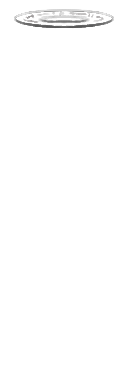
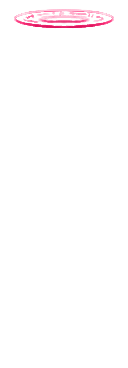
fixed unchained Victory VFX

Changed region(s): [[0.0938, 0.0, 0.9062, 0.0897]]

diff --git a/theUnchainedMod/src/main/java/theUnchainedMod/vfx/UnchainedVictoryVFX.java b/theUnchainedMod/src/main/java/theUnchainedMod/vfx/UnchainedVictoryVFX.java
@@ -2,6 +2,7 @@ package theUnchainedMod.vfx;
 
 import com.badlogic.gdx.Gdx;
 import com.badlogic.gdx.graphics.Color;
+import com.badlogic.gdx.graphics.GL20;
 import com.badlogic.gdx.graphics.Texture;
 import com.badlogic.gdx.graphics.g2d.SpriteBatch;
 import com.badlogic.gdx.graphics.g2d.TextureAtlas;
@@ -30,10 +31,8 @@ public class UnchainedVictoryVFX extends AbstractGameEffect {
     private float glowingEyeOpacity;
     private float restOfMaskOpacity;
     private float maskBreakMovementSpeed;
-    private TextureAtlas.AtlasRegion glowImage;
 
     public UnchainedVictoryVFX() {
-        this.glowImage = ImageMaster.GLOW_SPARK_2;
         this.startX = Settings.WIDTH/2f - 112;
         this.startY = Settings.HEIGHT/2f - 112;
         this.color = Color.WHITE.cpy();
@@ -42,22 +41,24 @@ public class UnchainedVictoryVFX extends AbstractGameEffect {
         glowingEyeOpacity = 1;
         restOfMaskOpacity = 1;
         leftMaskPieceX = leftMaskPieceY = rightMaskPieceX = rightMaskPieceY = 0;
-        maskBreakMovementSpeed = 4.5f;
+        maskBreakMovementSpeed = 5f;
     }
 
     public void update() {
+        if(this.duration == DUR)
+            CardCrawlGame.sound.play("relayApply", -0.5f); //chain breaking sound effect
         this.duration -= Gdx.graphics.getDeltaTime();
         if(glowingEyeOpacity > 0)
         {
             glowingEyeOpacity -= Gdx.graphics.getDeltaTime();
             if(glowingEyeOpacity < 0) {
                 glowingEyeOpacity = 0;
-                CardCrawlGame.sound.play("normalChainAttack"); //chain breaking sound effect
-                AbstractDungeon.effectsQueue.add(new ChainAcrossScreenEffect(color, 0,Settings.HEIGHT * 0.72f, MathUtils.random(4, 6), MathUtils.random(55,75)));
-                AbstractDungeon.effectsQueue.add(new ChainAcrossScreenEffect(color, Settings.WIDTH * 0.21f,Settings.HEIGHT, MathUtils.random(4, 6), MathUtils.random(230,250)));
-                AbstractDungeon.effectsQueue.add(new ChainAcrossScreenEffect(color, Settings.WIDTH * 0.25f,0, MathUtils.random(4, 6), MathUtils.random(130,150)));
-                AbstractDungeon.effectsQueue.add(new ChainAcrossScreenEffect(color, Settings.WIDTH * 0.83f,Settings.HEIGHT, MathUtils.random(4, 6), MathUtils.random(290,310)));
-                AbstractDungeon.effectsQueue.add(new ChainAcrossScreenEffect(color, Settings.WIDTH * 0.86f,0, MathUtils.random(4, 6), MathUtils.random(45,65)));
+                CardCrawlGame.sound.play("unchainedSelect"); //chain breaking sound effect
+                //AbstractDungeon.effectsQueue.add(new ChainAcrossScreenEffect(Color.GOLD, 0,Settings.HEIGHT * 0.72f, MathUtils.random(4, 6), MathUtils.random(55,75)));
+                //AbstractDungeon.effectsQueue.add(new ChainAcrossScreenEffect(Color.GOLD, Settings.WIDTH * 0.21f,Settings.HEIGHT, MathUtils.random(4, 6), MathUtils.random(230,250)));
+                //AbstractDungeon.effectsQueue.add(new ChainAcrossScreenEffect(Color.GOLD, Settings.WIDTH * 0.25f,0, MathUtils.random(4, 6), MathUtils.random(130,150)));
+                //AbstractDungeon.effectsQueue.add(new ChainAcrossScreenEffect(Color.GOLD, Settings.WIDTH * 0.83f,Settings.HEIGHT, MathUtils.random(4, 6), MathUtils.random(290,310)));
+                //AbstractDungeon.effectsQueue.add(new ChainAcrossScreenEffect(Color.GOLD, Settings.WIDTH * 0.86f,0, MathUtils.random(4, 6), MathUtils.random(45,65)));
             }
         }
         if(this.duration <= 1.5f)
@@ -68,7 +69,7 @@ public class UnchainedVictoryVFX extends AbstractGameEffect {
             rightMaskPieceX += maskBreakMovementSpeed;
             rightMaskPieceY -= 0.1f * maskBreakMovementSpeed;
 
-            maskBreakMovementSpeed -= 4 * Gdx.graphics.getDeltaTime();
+            maskBreakMovementSpeed -= 3 * Gdx.graphics.getDeltaTime();
         }
         if(this.duration <= 0.75f)
         {
@@ -84,7 +85,8 @@ public class UnchainedVictoryVFX extends AbstractGameEffect {
     }
 
     public void render(SpriteBatch sb) {
-        //sb.setColor(this.color);
+        sb.setBlendFunction(GL20.GL_SRC_ALPHA, GL20.GL_ONE_MINUS_SRC_ALPHA);
+
         sb.setColor(new Color(this.color.r, this.color.g, this.color.b, restOfMaskOpacity));
 
         sb.draw(MaskR, this.startX + rightMaskPieceX, this.startY + rightMaskPieceY, 112, 112, 224, 224, this.scale * Settings.scale, this.scale * Settings.scale, this.rotation, 0, 0, 224, 224, false, false);
@@ -94,10 +96,7 @@ public class UnchainedVictoryVFX extends AbstractGameEffect {
         sb.setColor(new Color(this.color.r, this.color.g, this.color.b, glowingEyeOpacity));
         sb.draw(MaskEyeGlow, this.startX, this.startY, 112, 112, 224, 224, this.scale * Settings.scale, this.scale * Settings.scale, this.rotation, 0, 0, 224, 224, false, false);
 
-        // TODO: first draw a glow effect like in share pain that also fades out
-        sb.setColor(new Color(0.9f, 0.3f, 0.86f, glowingEyeOpacity));
-        sb.draw(glowImage, this.startX, this.startY, (float)glowImage.packedWidth / 2.0F, (float)glowImage.packedHeight / 2.0F, (float)glowImage.packedWidth, (float)glowImage.packedHeight, 5* scale, 5* scale, this.rotation);
-
+        sb.setBlendFunction(770, 771);
     }
     public void dispose() {
     }

diff --git a/theUnchainedMod/src/main/java/theUnchainedMod/booster_pack_cards/SwordOfDamocles.java b/theUnchainedMod/src/main/java/theUnchainedMod/booster_pack_cards/SwordOfDamocles.java
@@ -19,21 +19,21 @@ public class SwordOfDamocles extends AbstractDynamicCard {
 
     public static final String ID = TheUnchainedMod.makeID(SwordOfDamocles.class.getSimpleName());
     public static final String IMG = makeCardPath("SwordOfDamocles.png");
-    private static final CardRarity RARITY = CardRarity.UNCOMMON;
+    private static final CardRarity RARITY = CardRarity.RARE;
     private static final CardTarget TARGET = CardTarget.SELF;
     private static final CardType TYPE = CardType.SKILL;
     public static final CardColor COLOR = TheUnchained.Enums.COLOR_BOOSTER;
 
     private static final int COST = 0;
-    private static final int MAGIC_NUMBER = 4; // Temp Strength
-    private static final int UPGRADE_MAGIC_NUMBER = 2;
+    private static final int MAGIC_NUMBER = 6; // Temp Strength
+    private static final int UPGRADE_MAGIC_NUMBER = 3;
     private static final int CHAIN_LENGTH = 1; //Chain Length
-    private static final int SECOND_MAGIC_NUMBER = 8; // Self Damage
+    //private static final int SECOND_MAGIC_NUMBER = 8; // Self Damage
 
     public SwordOfDamocles() {
         super(ID, IMG, COST, TYPE, COLOR, RARITY, TARGET);
         baseMagicNumber = magicNumber = MAGIC_NUMBER;
-        defaultBaseSecondMagicNumber = defaultSecondMagicNumber = SECOND_MAGIC_NUMBER;
+        //defaultBaseSecondMagicNumber = defaultSecondMagicNumber = SECOND_MAGIC_NUMBER;
         this.exhaust = true;
         tags.add(CustomTags.CHAIN);
     }
@@ -50,10 +50,10 @@ public class SwordOfDamocles extends AbstractDynamicCard {
     public void use(AbstractPlayer p, AbstractMonster m) {
         AbstractDungeon.actionManager.addToBottom(new ApplyPowerAction(p, p, new StrengthPower(p, this.magicNumber), this.magicNumber));
 
-        AbstractDungeon.actionManager.addToBottom(new ApplyPowerAction(p, p, new DamoclesChainPower(p, CHAIN_LENGTH, SECOND_MAGIC_NUMBER,  magicNumber, TYPE)));
+        AbstractDungeon.actionManager.addToBottom(new ApplyPowerAction(p, p, new DamoclesChainPower(p, CHAIN_LENGTH, magicNumber,  magicNumber, TYPE)));
         if (p.hasPower(DeliciousChurroPower.POWER_ID)) {
             p.getPower(DeliciousChurroPower.POWER_ID).onSpecificTrigger();
-            AbstractDungeon.actionManager.addToBottom(new ApplyPowerAction(p, p, new DamoclesChainPower(p, CHAIN_LENGTH, SECOND_MAGIC_NUMBER, magicNumber, TYPE)));
+            AbstractDungeon.actionManager.addToBottom(new ApplyPowerAction(p, p, new DamoclesChainPower(p, CHAIN_LENGTH, magicNumber, magicNumber, TYPE)));
         }
         AbstractDungeon.effectsQueue.add(new SwordOfDamoclesEffect(p.hb.cX, p.hb.cY));
     }

diff --git a/theUnchainedMod/src/main/java/theUnchainedMod/characters/TheUnchained.java b/theUnchainedMod/src/main/java/theUnchainedMod/characters/TheUnchained.java
@@ -28,6 +28,7 @@ import theUnchainedMod.TheUnchainedMod;
 import theUnchainedMod.cards.*;
 import theUnchainedMod.patches.CharacterSelectUIPatch;
 import theUnchainedMod.relics.RustedChains;
+import theUnchainedMod.vfx.ChainAcrossScreenEffect;
 import theUnchainedMod.vfx.UnchainedVictoryVFX;
 
 import java.util.ArrayList;
@@ -88,7 +89,7 @@ public class TheUnchained extends CustomPlayer {
     private static final String[] NAMES = characterStrings.NAMES;
     private static final String[] TEXT = characterStrings.TEXT;
 
-    // =============== /STRINGS/ =================
+    // =============== /END EFFECT/ =================
 
     boolean endEffectStarted;
 
@@ -325,13 +326,12 @@ public class TheUnchained extends CustomPlayer {
     {
         effects.add(new UnchainedVictoryVFX());
 
-        /*CardCrawlGame.sound.play("normalChainAttack"); //chain breaking sound effect
-        effects.add(new ChainAcrossScreenEffect(Color.WHITE, 0,Settings.HEIGHT * 0.72f, MathUtils.random(4, 6), MathUtils.random(55,75)));
-        effects.add(new ChainAcrossScreenEffect(Color.WHITE, Settings.WIDTH * 0.21f,Settings.HEIGHT, MathUtils.random(4, 6), MathUtils.random(230,250)));
-        effects.add(new ChainAcrossScreenEffect(Color.WHITE, Settings.WIDTH * 0.25f,0, MathUtils.random(4, 6), MathUtils.random(130,150)));
-        effects.add(new ChainAcrossScreenEffect(Color.WHITE, Settings.WIDTH * 0.83f,Settings.HEIGHT, MathUtils.random(4, 6), MathUtils.random(290,310)));
-        effects.add(new ChainAcrossScreenEffect(Color.WHITE, Settings.WIDTH * 0.86f,0, MathUtils.random(4, 6), MathUtils.random(45,65)));
-*/
+        effects.add(new ChainAcrossScreenEffect(Color.GOLD, 0,Settings.HEIGHT * 0.72f, MathUtils.random(4, 6), MathUtils.random(55,75)));
+        effects.add(new ChainAcrossScreenEffect(Color.GOLD, Settings.WIDTH * 0.21f, Settings.HEIGHT, MathUtils.random(4, 6), MathUtils.random(230,250)));
+        effects.add(new ChainAcrossScreenEffect(Color.GOLD, Settings.WIDTH * 0.25f,0, MathUtils.random(4, 6), MathUtils.random(130,150)));
+        effects.add(new ChainAcrossScreenEffect(Color.GOLD, Settings.WIDTH * 0.83f, Settings.HEIGHT, MathUtils.random(4, 6), MathUtils.random(290,310)));
+        effects.add(new ChainAcrossScreenEffect(Color.GOLD, Settings.WIDTH * 0.86f,0, MathUtils.random(4, 6), MathUtils.random(45,65)));
+
         endEffectStarted = true;
 
         unchainedConfig.setBool(UNCHAINED_SKIN_UNLOCKED_PROPERTY, true);

diff --git a/theUnchainedMod/src/main/java/theUnchainedMod/vfx/ChainAcrossScreenEffect.java b/theUnchainedMod/src/main/java/theUnchainedMod/vfx/ChainAcrossScreenEffect.java
@@ -3,6 +3,7 @@ package theUnchainedMod.vfx;
 import com.badlogic.gdx.Gdx;
 import com.badlogic.gdx.Screen;
 import com.badlogic.gdx.graphics.Color;
+import com.badlogic.gdx.graphics.GL20;
 import com.badlogic.gdx.graphics.Texture;
 import com.badlogic.gdx.graphics.g2d.SpriteBatch;
 import com.badlogic.gdx.math.MathUtils;
@@ -57,11 +58,13 @@ public class ChainAcrossScreenEffect extends AbstractGameEffect {
     }
 
     public void render(SpriteBatch sb) {
+        sb.setBlendFunction(GL20.GL_SRC_ALPHA, GL20.GL_ONE_MINUS_SRC_ALPHA);
         sb.setColor(this.color);
         for(int i = 0; i < 5; i++)
         {
             sb.draw(chainTexture, this.x - i * xChainOffset, this.y - i * yChainOffset, 512, 64, 1024, 128, scale, scale, this.rotation, 0, 0, 1024, 128, false, false);
         }
+        sb.setBlendFunction(770, 771);
     }
 
     public void dispose() {

diff --git a/theUnchainedMod/src/main/java/theUnchainedMod/actions/WideSwingEndTurnAction.java b/theUnchainedMod/src/main/java/theUnchainedMod/actions/WideSwingEndTurnAction.java
@@ -6,6 +6,7 @@ import com.megacrit.cardcrawl.characters.AbstractPlayer;
 import com.megacrit.cardcrawl.dungeons.AbstractDungeon;
 import com.megacrit.cardcrawl.powers.AbstractPower;
 import theUnchainedMod.powers.AbstractChainPower;
+import theUnchainedMod.powers.AbstractMasterChainPower;
 
 public class WideSwingEndTurnAction extends AbstractGameAction {
 
@@ -19,7 +20,7 @@ public class WideSwingEndTurnAction extends AbstractGameAction {
     public void update() {
 
         for (AbstractPower p : player.powers) {
-            if (p instanceof AbstractChainPower) {
+            if (p instanceof AbstractChainPower || p instanceof AbstractMasterChainPower) {
                 AbstractDungeon.actionManager.addToBottom(new PressEndTurnButtonAction());
                 break;
             }

diff --git a/theUnchainedMod/src/main/java/theUnchainedMod/cards/WideSwing.java b/theUnchainedMod/src/main/java/theUnchainedMod/cards/WideSwing.java
@@ -17,6 +17,7 @@ import theUnchainedMod.actions.WideSwingEndTurnAction;
 import theUnchainedMod.characters.TheUnchained;
 import theUnchainedMod.patches.CustomTags;
 import theUnchainedMod.powers.AbstractChainPower;
+import theUnchainedMod.powers.AbstractMasterChainPower;
 
 import static theUnchainedMod.TheUnchainedMod.makeCardPath;
 
@@ -51,7 +52,7 @@ public class WideSwing extends AbstractDynamicCard {
     @Override
     public void triggerOnGlowCheck() {
         for (AbstractPower p : AbstractDungeon.player.powers) {
-            if (p instanceof AbstractChainPower) {
+            if (p instanceof AbstractChainPower || p instanceof AbstractMasterChainPower) {
                 this.glowColor = new Color(1.0F, 0.0F, 0.0F, 1.0F);
                 return;
             }

diff --git a/theUnchainedMod/src/main/java/theUnchainedMod/vfx/SwordHangingEffect.java b/theUnchainedMod/src/main/java/theUnchainedMod/vfx/SwordHangingEffect.java
@@ -82,7 +82,7 @@ public class SwordHangingEffect extends AbstractGameEffect {
 
     public void render(SpriteBatch sb) {
         this.rotation = 0;
-        sb.setBlendFunction(GL20.GL_SRC_ALPHA, 1);
+        sb.setBlendFunction(GL20.GL_SRC_ALPHA, GL20.GL_ONE_MINUS_SRC_ALPHA);
         sb.setColor(this.color);
         sb.draw(DamoclesGlyph, this.x - 15f, this.y, 64.0F, 64.0F, 128.0F, 368.0F, this.scaleX * Settings.scale, this.scaleY * Settings.scale, this.rotation, 0, 0, 128, 368, false, false);
 

diff --git a/theUnchainedMod/src/main/java/theUnchainedMod/vfx/SwordOfDamoclesEffect.java b/theUnchainedMod/src/main/java/theUnchainedMod/vfx/SwordOfDamoclesEffect.java
@@ -19,7 +19,7 @@ public class SwordOfDamoclesEffect extends AbstractGameEffect {
         this.duration = this.startingDuration;
     }
     public void update() {
-        //AbstractDungeon.effectsQueue.add(new UnchainedVictoryVFX());
+        AbstractDungeon.effectsQueue.add(new UnchainedVictoryVFX());
         if(!SwordIsHanging) {
             sword = new SwordHangingEffect(this.x, this.y - 30.0F * Settings.scale, 0.0F,-500.0f, Color.WHITE);
             sword.isDone = false;
